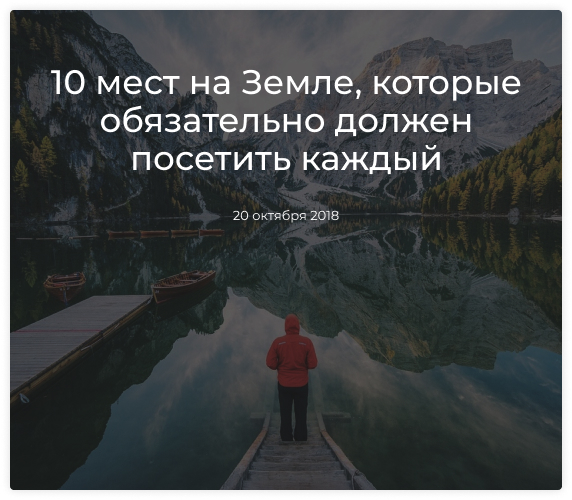
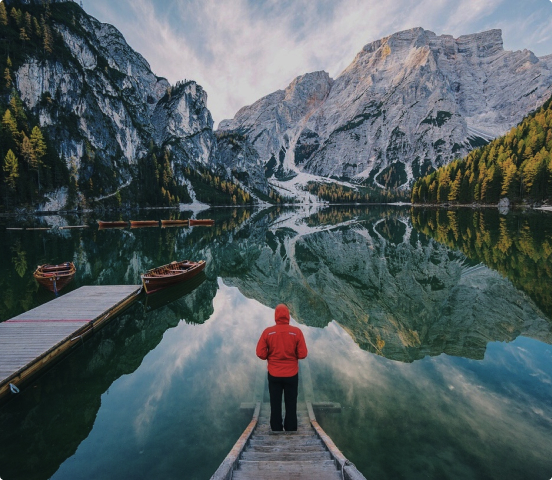
update 1

diff --git a/build/index.html b/build/index.html
@@ -1,1 +1,1 @@
-<!DOCTYPE html><html lang="en"><head><meta charset="UTF-8"><meta name="viewport" content="width=device-width,initial-scale=1"><meta http-equiv="X-UA-Compatible" content="ie=edge"><link href="https://fonts.googleapis.com/css?family=Montserrat:400,500&display=swap" rel="stylesheet"><link rel="stylesheet" href="styles/style.min.css"><title>Level2-Site1</title></head><body class="page"><header class="header"><div class="header-top"><div class="header-top__right"><img class="header-top__logo" src="./images/header-logo.svg" width="183" height="50" alt="header-logo"><ul class="header-top__lang"><li class="other-lang"><a class="lang" href="#">Eng</a></li><li class="current-lang"><a class="lang" href="#">Рус</a></li></ul></div><nav class="nav"><ul class="nav-list"><li class="nav-list__item"><a class="nav-list__link" href="#">О нас</a></li><li class="nav-list__item"><a class="nav-list__link" href="#">Туры</a></li><li class="nav-list__item"><a class="nav-list__link" href="#">Визы</a></li><li class="nav-list__item"><a class="nav-list__link" href="#">Агентам</a></li><li class="nav-list__item"><a class="nav-list__link" href="#">Контакты</a></li></ul><a class="nav__help" href="#">Помощь</a></nav></div><div class="banner"><div class="banner-text"><h1 class="banner-text__title">Исследуйте мир вместе с нами</h1><p class="banner-text__action">Брось себе вызов. Отправься в путешествия в дикие уголки природы.</p></div><div class="banner-search"><h2 class="banner-search__title">Быстрый поиск тура</h2><form class="form" action="#"><p class="form-input"><input class="input form__where" id="where" type="text" placeholder="Куда"> <label class="label" for="where"></label></p><p class="form-input"><input class="input form__when" id="when" type="text" placeholder="Когда"> <label class="label" for="when"></label> <input class="input form__duration" id="duration" type="text" placeholder="Продолжительность"> <label class="label" for="duration"></label></p><p class="form-input"><input class="input form__tour-type" id="tour-type" type="text" placeholder="Тип тура"> <label class="label" for="tour-type"></label></p><button class="form__find">Найти</button></form></div></div><div class="advantages"><h2 class="advantages__title">Почему именно мы</h2><div class="advantages-description"><div class="advantage"><img class="advantage__image" src="./images/visa.svg" alt="visa"><p class="advantage__description">Визовая поддержка клиентов</p></div><div class="advantage"><img class="advantage__image" src="./images/world.svg" alt="world"><p class="advantage__description">Направления по всему миру</p></div><div class="advantage"><img class="advantage__image" src="./images/hunter.svg" alt="hunter"><p class="advantage__description">Сопровождение опытными гидами</p></div><div class="advantage"><img class="advantage__image" src="./images/equipment.svg" alt="equipment"><p class="advantage__description">Полное обеспечение снаряжением</p></div></div></div></header><main class="main"><div class="directions"><h2 class="directions__title">Актуальные направления</h2><div class="directions-info"><div class="direction"><img src="./images/kemping-photo.jpg" width="360" height="216" alt="kemping-photo" class="direction__image"><h3 class="direction__title">Кемпинг в Хардангере – сердце Региона фьордов</h3><p class="direction__description">Одно из лучших мест отдыха находится в районе Хардангера, у туристов есть возможность ежедневно любоваться дикой природой севера.</p><p class="direction__details">Подробнее</p></div><div class="direction"><img src="./images/Sogne-fjord-photo.jpg" width="360" height="216" alt="Sogne-fjord-photo" class="direction__image"><h3 class="direction__title">Треккинг по Согне-фьорд с восхождением на Гальхёпигген</h3><p class="direction__description">Уникальный поход совмещенный с путешествием по самому большому и красивому фьорду – Согне-фьорд.</p><p class="direction__details">Подробнее</p></div><div class="direction"><img src="./images/climbing-photo.jpg" width="360" height="216" alt="climbing-photo" class="direction__image"><h3 class="direction__title">Восхождение на гору Ушба в регионе Сванети</h3><p class="direction__description">Одна из самых знаменитых гор Кавказа. Расположена она в регионе Сванети. Со сванского языка "уш" означает беда, "ба" — гору. То есть гора, приносящая несчастье.</p><p class="direction__details">Подробнее</p></div><div class="direction"><img src="./images/kayaking-photo.jpg" width="360" height="216" alt="kayaking-photo" class="direction__image"><h3 class="direction__title">Каякинг на каноэ по озеру Сайма в Финляндии</h3><p class="direction__description">Водный поход с элементами ориентирования и необычными природными объектами. Неделя настоящего отдыха для тех, кто любит ...</p><p class="direction__details">Подробнее</p></div><div class="direction"><img src="./images/troll-tongue-photo.jpg" width="360" height="216" alt="troll-tongue-photo" class="direction__image"><h3 class="direction__title">Треккинг к Языку Тролля — Фьорд Sørfjorden, Норвегия</h3><p class="direction__description">Язык Тролля - без преувеличения самое известное и культовое место в Норвегии. К нему не доехать на машине. Сюда могут попасть только те..</p><p class="direction__details">Подробнее</p></div><div class="direction"><img src="./images/hike-photo.jpg" width="360" height="216" alt="hike-photo" class="direction__image"><h3 class="direction__title">Поход по Исландии - Лаугавегур - Ландманалуга</h3><p class="direction__description">За 9 ходовых дней (из них 2 дня – радиальные выходы) пройдем ~ 135 км по горам, лавовым полям, разноцветным холмам и другим исландским природным..</p><p class="direction__details">Подробнее</p></div><button class="directions__button">Смотреть все</button></div></div></main><script src="scripts/libs.min.js"></script><script src="scripts/main.min.js"></script></body></html>
+<!DOCTYPE html><html lang="en"><head><meta charset="UTF-8"><meta name="viewport" content="width=device-width,initial-scale=1"><meta http-equiv="X-UA-Compatible" content="ie=edge"><link href="https://fonts.googleapis.com/css?family=Montserrat:400,500&display=swap" rel="stylesheet"><link rel="stylesheet" href="styles/style.min.css"><title>Level2-Site1</title></head><body class="page"><header class="header"><div class="header-top"><div class="header-top__right"><img class="header-top__logo" src="./images/header-logo.svg" width="183" height="50" alt="header-logo"><ul class="header-top__lang"><li class="other-lang"><a class="lang" href="#">Eng</a></li><li class="current-lang"><a class="lang" href="#">Рус</a></li></ul></div><nav class="nav"><ul class="nav-list"><li class="nav-list__item"><a class="nav-list__link" href="#">О нас</a></li><li class="nav-list__item"><a class="nav-list__link" href="#">Туры</a></li><li class="nav-list__item"><a class="nav-list__link" href="#">Визы</a></li><li class="nav-list__item"><a class="nav-list__link" href="#">Агентам</a></li><li class="nav-list__item"><a class="nav-list__link" href="#">Контакты</a></li></ul><a class="nav__help" href="#">Помощь</a></nav></div><div class="banner"><div class="banner-text"><h1 class="banner-text__title">Исследуйте мир вместе с нами</h1><p class="banner-text__action">Брось себе вызов. Отправься в путешествия в дикие уголки природы.</p></div><div class="banner-search"><h2 class="banner-search__title">Быстрый поиск тура</h2><form class="form" action="#"><p class="form-input"><input class="input form__where" id="where" type="text" placeholder="Куда"> <label class="label" for="where"></label></p><p class="form-input"><input class="input form__when" id="when" type="text" placeholder="Когда"> <label class="label" for="when"></label> <input class="input form__duration" id="duration" type="text" placeholder="Продолжительность"> <label class="label" for="duration"></label></p><p class="form-input"><input class="input form__tour-type" id="tour-type" type="text" placeholder="Тип тура"> <label class="label" for="tour-type"></label></p><button class="form__find">Найти</button></form></div></div><div class="advantages"><h2 class="advantages__title">Почему именно мы</h2><div class="advantages-description"><div class="advantage"><img class="advantage__image" src="./images/visa.svg" alt="visa"><p class="advantage__description">Визовая поддержка клиентов</p></div><div class="advantage"><img class="advantage__image" src="./images/world.svg" alt="world"><p class="advantage__description">Направления по всему миру</p></div><div class="advantage"><img class="advantage__image" src="./images/hunter.svg" alt="hunter"><p class="advantage__description">Сопровождение опытными гидами</p></div><div class="advantage"><img class="advantage__image" src="./images/equipment.svg" alt="equipment"><p class="advantage__description">Полное обеспечение снаряжением</p></div></div></div></header><main class="main"><div class="directions"><h2 class="directions__title">Актуальные направления</h2><div class="directions-info"><div class="direction"><img class="direction__image" src="./images/kemping-photo.jpg" width="360" height="216" alt="kemping-photo"><h3 class="direction__title">Кемпинг в Хардангере – сердце Региона фьордов</h3><p class="direction__description">Одно из лучших мест отдыха находится в районе Хардангера, у туристов есть возможность ежедневно любоваться дикой природой севера.</p><p class="direction__details">Подробнее</p></div><div class="direction"><img class="direction__image" src="./images/Sogne-fjord-photo.jpg" width="360" height="216" alt="Sogne-fjord-photo"><h3 class="direction__title">Треккинг по Согне-фьорд с восхождением на Гальхёпигген</h3><p class="direction__description">Уникальный поход совмещенный с путешествием по самому большому и красивому фьорду – Согне-фьорд.</p><p class="direction__details">Подробнее</p></div><div class="direction"><img class="direction__image" src="./images/climbing-photo.jpg" width="360" height="216" alt="climbing-photo"><h3 class="direction__title">Восхождение на гору Ушба в регионе Сванети</h3><p class="direction__description">Одна из самых знаменитых гор Кавказа. Расположена она в регионе Сванети. Со сванского языка "уш" означает беда, "ба" — гору. То есть гора, приносящая несчастье.</p><p class="direction__details">Подробнее</p></div><div class="direction"><img class="direction__image" src="./images/kayaking-photo.jpg" width="360" height="216" alt="kayaking-photo"><h3 class="direction__title">Каякинг на каноэ по озеру Сайма в Финляндии</h3><p class="direction__description">Водный поход с элементами ориентирования и необычными природными объектами. Неделя настоящего отдыха для тех, кто любит ...</p><p class="direction__details">Подробнее</p></div><div class="direction"><img class="direction__image" src="./images/troll-tongue-photo.jpg" width="360" height="216" alt="troll-tongue-photo"><h3 class="direction__title">Треккинг к Языку Тролля — Фьорд Sørfjorden, Норвегия</h3><p class="direction__description">Язык Тролля - без преувеличения самое известное и культовое место в Норвегии. К нему не доехать на машине. Сюда могут попасть только те..</p><p class="direction__details">Подробнее</p></div><div class="direction"><img class="direction__image" src="./images/hike-photo.jpg" width="360" height="216" alt="hike-photo"><h3 class="direction__title">Поход по Исландии - Лаугавегур - Ландманалуга</h3><p class="direction__description">За 9 ходовых дней (из них 2 дня – радиальные выходы) пройдем ~ 135 км по горам, лавовым полям, разноцветным холмам и другим исландским природным..</p><p class="direction__details">Подробнее</p></div></div><button class="button">Смотреть все</button></div><div class="statistics"><div class="statistics-content"><div class="data"><h2 class="data__number">9</h2><p class="data__text">Лет работы</p></div><div class="data"><h2 class="data__number">62,500</h2><p class="data__text">Довольных клиентов</p></div><div class="data"><h2 class="data__number">112</h2><p class="data__text">Захватываюших туров</p></div><div class="data"><h2 class="data__number">23</h2><p class="data__text">Офиса в Беларуси</p></div></div></div><div class="blog"><h2 class="blog__title">Наш блог</h2><div class="blog__description"><div class="ten-places"><h3 class="ten-places__title">10 мест на Земле, которые обязательно должен посетить каждый</h3><p class="date">20 октября 2018</p></div><div class="travel-bloger"><img class="travel-bloger__image" src="./images/blog-travel-bloger.jpg" alt="travel-bloger"><h3 class="travel-bloger__title">Как стать успешным тревел-блогером</h3><p class="travel-bloger__description">Блоги о путешествиях - это актуальное пространство, и каждый день оно становится более переполненным. И многие советы, которые..</p><div class="card-bottom"><p class="date">17 октября 2018</p><div class="feedback"><div class="comments"><img class="comments__icon" src="" alt=""><p class="comments__number">208</p></div><div class="likes"><img class="likes__icon" src="" alt=""><p class="likes__number">21</p></div></div></div></div><div class="lifehacks"><img class="lifehacks__image" src="./images/blog-lifehacks.jpg" alt="lifehacks"><h3 class="lifehacks__title">Лайфхаки успешно- го путешествия по Норвегии</h3><p class="lifehacks__description">Норвегия — пожалуй, лучшая страна для приключенчес- кого туризма в Европе. Здесь есть все: горы для альпинистов..</p><div class="card-bottom"><p class="date">12 октября 2018</p><div class="feedback"><div class="comments"><img class="comments__icon" src="" alt=""><p class="comments__number">112</p></div><div class="likes"><img class="likes__icon" src="" alt=""><p class="likes__number">13</p></div></div></div></div></div><button class="button">Смотреть все</button></div></main><script src="scripts/libs.min.js"></script><script src="scripts/main.min.js"></script></body></html>

diff --git a/build/styles/style.min.css b/build/styles/style.min.css
@@ -1,2 +1,2 @@
-*,body{margin:0}*{-webkit-box-sizing:border-box;box-sizing:border-box;padding:0}body{color:#fff;font-family:"Montserrat",sans-serif;background-color:#1b1e22}.header{max-width:1440px;margin:auto;height:1032px;padding-top:29px;background:-webkit-gradient(linear,left top,left bottom,color-stop(2.5%,rgba(255,255,255,.03)),color-stop(42.42%,rgba(27,30,34,.4)),color-stop(80.67%,#1b1e22)),url(../images/background.jpg) no-repeat center;background:-o-linear-gradient(top,rgba(255,255,255,.03) 2.5%,rgba(27,30,34,.4) 42.42%,#1b1e22 80.67%),url(../images/background.jpg) no-repeat center;background:linear-gradient(180deg,rgba(255,255,255,.03) 2.5%,rgba(27,30,34,.4) 42.42%,#1b1e22 80.67%),url(../images/background.jpg) no-repeat center}.header-top,.header-top__lang,.header-top__right{display:-webkit-box;display:-ms-flexbox;display:flex;-webkit-box-pack:justify;-ms-flex-pack:justify;justify-content:space-between}.header-top{margin:0 auto 77px;-webkit-box-align:center;-ms-flex-align:center;align-items:center;max-width:1128px}.header-top__lang,.header-top__right{-webkit-box-align:end;-ms-flex-align:end;align-items:flex-end;width:100%;max-width:292px}.header-top__lang{-webkit-box-align:center;-ms-flex-align:center;align-items:center;max-width:76px;font-weight:500;font-size:13px;line-height:16px;list-style-type:none}.other-lang a{color:rgba(196,196,196,.5)}.lang{color:#fff;text-decoration:none}.nav,.nav-list{display:-webkit-box;display:-ms-flexbox;display:flex;-webkit-box-align:center;-ms-flex-align:center;align-items:center;-webkit-box-pack:justify;-ms-flex-pack:justify;justify-content:space-between;width:100%}.nav{font-size:18px;line-height:32px;max-width:657px}.nav-list{max-width:476px}.nav-list__item{list-style-type:none}.nav-list__link{color:#fff;text-decoration:none}.banner,.nav__help{display:-webkit-box;display:-ms-flexbox;display:flex;-webkit-box-align:center;-ms-flex-align:center;align-items:center}.nav__help{width:100%;height:48px;color:#fff;text-decoration:none;border:1px solid #ffb800;border-radius:10px;-webkit-box-pack:center;-ms-flex-pack:center;justify-content:center;max-width:146px}.banner{-webkit-box-pack:justify;-ms-flex-pack:justify;justify-content:space-between;max-width:1205px;margin:0 auto 208px}.banner-text__title{max-width:585px;margin-bottom:42px;font-weight:500;font-size:48px;line-height:58px}.banner-text__action{max-width:474px;font-size:20px;line-height:38px}.banner-search{display:-webkit-box;display:-ms-flexbox;display:flex;-webkit-box-orient:vertical;-webkit-box-direction:normal;-ms-flex-direction:column;flex-direction:column;width:100%;max-width:500px;padding:54px 70px 52px;border-radius:10px;-webkit-backdrop-filter:blur(24px);backdrop-filter:blur(24px)}.banner-search__title{margin-bottom:23px;font-weight:500;font-size:20px;line-height:24px}.form,.form-input{display:-webkit-box;display:-ms-flexbox;display:flex;width:100%}.form{-webkit-box-orient:vertical;-webkit-box-direction:normal;-ms-flex-direction:column;flex-direction:column;-webkit-box-align:center;-ms-flex-align:center;align-items:center}.form-input{-webkit-box-pack:justify;-ms-flex-pack:justify;justify-content:space-between;margin-bottom:21px}.input{width:100%;padding:9px 0 9px 12px;color:#fff;font-weight:500;font-size:13px;font-family:"Montserrat",sans-serif;line-height:16px;background:0 0;border:1px solid #fff;border-radius:4px;outline:0;caret-color:#fff}.input::-webkit-input-placeholder{color:#fff;font-weight:500;font-size:13px;font-family:"Montserrat",sans-serif;line-height:16px}.input::-moz-placeholder{color:#fff;font-weight:500;font-size:13px;font-family:"Montserrat",sans-serif;line-height:16px}.input:-ms-input-placeholder,.input::-ms-input-placeholder{color:#fff;font-weight:500;font-size:13px;font-family:"Montserrat",sans-serif;line-height:16px}.input::placeholder{color:#fff;font-weight:500;font-size:13px;font-family:"Montserrat",sans-serif;line-height:16px}.label{display:none}.form__where{max-width:360px}.form__duration,.form__when{max-width:168px}.form__find,.form__tour-type{max-width:360px}.form__find{width:100%;padding:6px 0;color:#333;font-weight:500;font-size:20px;line-height:24px;background:#ffb800;border:0;border-radius:4px;outline:0;cursor:pointer}.advantages{display:-webkit-box;display:-ms-flexbox;display:flex;-webkit-box-orient:vertical;-webkit-box-direction:normal;-ms-flex-direction:column;flex-direction:column;-webkit-box-align:center;-ms-flex-align:center;align-items:center;max-width:1128px;margin:auto}.advantages__title{font-weight:500;font-size:34px;line-height:38px;font-style:normal;margin-bottom:21px}.advantage,.advantages-description{display:-webkit-box;display:-ms-flexbox;display:flex}.advantages-description{-webkit-box-pack:justify;-ms-flex-pack:justify;justify-content:space-between}.advantage{-webkit-box-orient:vertical;-webkit-box-direction:normal;-ms-flex-direction:column;flex-direction:column;max-width:264px;width:100%}.advantage__image{margin-bottom:17px}.advantage__description{text-align:center;font-weight:500;font-size:20px;line-height:24px}.directions{display:-webkit-box;display:-ms-flexbox;display:flex;-webkit-box-orient:vertical;-webkit-box-direction:normal;-ms-flex-direction:column;flex-direction:column;-webkit-box-align:center;-ms-flex-align:center;align-items:center;max-width:1152px;margin:auto auto 48px}.directions__title{text-align:center;font-weight:500;font-size:34px;line-height:38px;margin-bottom:45px}.direction,.directions-info{display:-webkit-box;display:-ms-flexbox;display:flex;-webkit-box-pack:justify;-ms-flex-pack:justify;justify-content:space-between}.directions-info{-ms-flex-wrap:wrap;flex-wrap:wrap}.direction{-webkit-box-orient:vertical;-webkit-box-direction:normal;-ms-flex-direction:column;flex-direction:column;max-width:360px;width:100%;background:#23282f;border-radius:4px;margin:12px;height:432px}.direction:hover,.direction:hover .direction__image{-webkit-transition:.5s;-o-transition:.5s;transition:.5s}.direction:hover{background:#fff;-webkit-box-shadow:0 15px 35px rgba(0,0,0,.75);box-shadow:0 15px 35px rgba(0,0,0,.75);max-width:384px;margin:0;cursor:pointer;height:456px}.direction:hover .direction__image{width:384px;height:228px}.direction:hover .direction__description,.direction:hover .direction__details,.direction:hover .direction__title{margin:0 32px;-webkit-transition:.5s;-o-transition:.5s;transition:.5s;color:#333}.direction:hover .direction__details{margin:0 32px 33px;color:#000}.direction__title{font-weight:500;font-size:20px;line-height:24px;margin:0 20px}.direction__description{font-size:14px;line-height:20px;margin:0 20px}.direction__details{font-weight:500;font-size:13px;line-height:16px;margin:0 20px 24px;opacity:.5}.directions__button{font-weight:500;font-size:20px;line-height:24px;border:1px solid #ffb800;border-radius:4px;width:100%;max-width:216px;height:48px;background:0 0;color:#fff;font-family:"Montserrat",sans-serif;outline:0;cursor:pointer}
+*,body{margin:0}*{-webkit-box-sizing:border-box;box-sizing:border-box;padding:0}body{color:#fff;font-family:"Montserrat",sans-serif;background-color:#1b1e22}.header{max-width:1440px;margin:auto;height:1032px;padding-top:29px;background:-webkit-gradient(linear,left top,left bottom,color-stop(2.5%,rgba(255,255,255,.03)),color-stop(42.42%,rgba(27,30,34,.4)),color-stop(80.67%,#1b1e22)),url(../images/background.jpg) no-repeat center;background:-o-linear-gradient(top,rgba(255,255,255,.03) 2.5%,rgba(27,30,34,.4) 42.42%,#1b1e22 80.67%),url(../images/background.jpg) no-repeat center;background:linear-gradient(180deg,rgba(255,255,255,.03) 2.5%,rgba(27,30,34,.4) 42.42%,#1b1e22 80.67%),url(../images/background.jpg) no-repeat center}.header-top,.header-top__lang,.header-top__right{display:-webkit-box;display:-ms-flexbox;display:flex;-webkit-box-pack:justify;-ms-flex-pack:justify;justify-content:space-between}.header-top{margin:0 auto 77px;-webkit-box-align:center;-ms-flex-align:center;align-items:center;max-width:1128px}.header-top__lang,.header-top__right{-webkit-box-align:end;-ms-flex-align:end;align-items:flex-end;width:100%;max-width:292px}.header-top__lang{-webkit-box-align:center;-ms-flex-align:center;align-items:center;max-width:76px;font-weight:500;font-size:13px;line-height:16px;list-style-type:none}.other-lang a{color:rgba(196,196,196,.5)}.lang{color:#fff;text-decoration:none}.nav,.nav-list{display:-webkit-box;display:-ms-flexbox;display:flex;-webkit-box-align:center;-ms-flex-align:center;align-items:center;-webkit-box-pack:justify;-ms-flex-pack:justify;justify-content:space-between;width:100%}.nav{font-size:18px;line-height:32px;max-width:657px}.nav-list{max-width:476px}.nav-list__item{list-style-type:none}.nav-list__link{color:#fff;text-decoration:none}.banner,.nav__help{display:-webkit-box;display:-ms-flexbox;display:flex;-webkit-box-align:center;-ms-flex-align:center;align-items:center}.nav__help{width:100%;height:48px;color:#fff;text-decoration:none;border:1px solid #ffb800;border-radius:10px;-webkit-box-pack:center;-ms-flex-pack:center;justify-content:center;max-width:146px}.banner{-webkit-box-pack:justify;-ms-flex-pack:justify;justify-content:space-between;max-width:1205px;margin:0 auto 208px}.banner-text__title{max-width:585px;margin-bottom:42px;font-weight:500;font-size:48px;line-height:58px}.banner-text__action{max-width:474px;font-size:20px;line-height:38px}.banner-search{display:-webkit-box;display:-ms-flexbox;display:flex;-webkit-box-orient:vertical;-webkit-box-direction:normal;-ms-flex-direction:column;flex-direction:column;width:100%;max-width:500px;padding:54px 70px 52px;border-radius:10px;-webkit-backdrop-filter:blur(24px);backdrop-filter:blur(24px)}.banner-search__title{margin-bottom:23px;font-weight:500;font-size:20px;line-height:24px}.form,.form-input{display:-webkit-box;display:-ms-flexbox;display:flex;width:100%}.form{-webkit-box-orient:vertical;-webkit-box-direction:normal;-ms-flex-direction:column;flex-direction:column;-webkit-box-align:center;-ms-flex-align:center;align-items:center}.form-input{-webkit-box-pack:justify;-ms-flex-pack:justify;justify-content:space-between;margin-bottom:21px}.input{width:100%;padding:9px 0 9px 12px;color:#fff;font-weight:500;font-size:13px;font-family:"Montserrat",sans-serif;line-height:16px;background:0 0;border:1px solid #fff;border-radius:4px;outline:0;caret-color:#fff}.input::-webkit-input-placeholder{color:#fff;font-weight:500;font-size:13px;font-family:"Montserrat",sans-serif;line-height:16px}.input::-moz-placeholder{color:#fff;font-weight:500;font-size:13px;font-family:"Montserrat",sans-serif;line-height:16px}.input:-ms-input-placeholder,.input::-ms-input-placeholder{color:#fff;font-weight:500;font-size:13px;font-family:"Montserrat",sans-serif;line-height:16px}.input::placeholder{color:#fff;font-weight:500;font-size:13px;font-family:"Montserrat",sans-serif;line-height:16px}.label{display:none}.form__where{max-width:360px}.form__duration,.form__when{max-width:168px}.form__find,.form__tour-type{max-width:360px}.form__find{width:100%;padding:6px 0;color:#333;font-weight:500;font-size:20px;line-height:24px;background:#ffb800;border:0;border-radius:4px;outline:0;cursor:pointer}.advantages{display:-webkit-box;display:-ms-flexbox;display:flex;-webkit-box-orient:vertical;-webkit-box-direction:normal;-ms-flex-direction:column;flex-direction:column;-webkit-box-align:center;-ms-flex-align:center;align-items:center;max-width:1128px;margin:auto}.advantages__title{font-weight:500;font-size:34px;line-height:38px;font-style:normal;margin-bottom:21px}.advantage,.advantages-description{display:-webkit-box;display:-ms-flexbox;display:flex}.advantages-description{-webkit-box-pack:justify;-ms-flex-pack:justify;justify-content:space-between}.advantage{-webkit-box-orient:vertical;-webkit-box-direction:normal;-ms-flex-direction:column;flex-direction:column;max-width:264px;width:100%}.advantage__image{margin-bottom:17px}.advantage__description{text-align:center;font-weight:500;font-size:20px;line-height:24px}.directions{display:-webkit-box;display:-ms-flexbox;display:flex;-webkit-box-orient:vertical;-webkit-box-direction:normal;-ms-flex-direction:column;flex-direction:column;-webkit-box-align:center;-ms-flex-align:center;align-items:center;max-width:1152px;margin:0 auto 72px}.directions__title{text-align:center;font-weight:500;font-size:34px;line-height:38px;margin-bottom:45px}.direction,.directions-info{display:-webkit-box;display:-ms-flexbox;display:flex;-webkit-box-pack:justify;-ms-flex-pack:justify;justify-content:space-between}.directions-info{-ms-flex-wrap:wrap;flex-wrap:wrap;margin-bottom:48px}.direction{-webkit-box-orient:vertical;-webkit-box-direction:normal;-ms-flex-direction:column;flex-direction:column;max-width:360px;width:100%;background:#23282f;border-radius:4px;margin:12px;height:432px}.direction:hover,.direction:hover .direction__image{-webkit-transition:.5s;-o-transition:.5s;transition:.5s}.direction:hover{background:#fff;-webkit-box-shadow:0 15px 35px rgba(0,0,0,.75);box-shadow:0 15px 35px rgba(0,0,0,.75);max-width:384px;margin:0;cursor:pointer;height:456px}.direction:hover .direction__image{width:384px;height:228px}.direction:hover .direction__description,.direction:hover .direction__details,.direction:hover .direction__title{margin:0 32px;-webkit-transition:.5s;-o-transition:.5s;transition:.5s;color:#333}.direction:hover .direction__details{margin:0 32px 33px;color:#000}.direction__title{font-weight:500;font-size:20px;line-height:24px;margin:0 20px}.direction__description{font-size:14px;line-height:20px;margin:0 20px}.direction__details{font-weight:500;font-size:13px;line-height:16px;margin:0 20px 24px;opacity:.5}.button{font-weight:500;font-size:20px;line-height:24px;border:1px solid #ffb800;border-radius:4px;width:100%;max-width:216px;height:48px;background:0 0;color:#fff;font-family:"Montserrat",sans-serif;outline:0;cursor:pointer}.statistics{background:url(/images/statistics-background.jpg) no-repeat center;padding:59px 0 68px;margin-bottom:62px}.data,.statistics-content{display:-webkit-box;display:-ms-flexbox;display:flex}.statistics-content{-webkit-box-pack:justify;-ms-flex-pack:justify;justify-content:space-between;max-width:1128px;margin:auto}.data{-webkit-box-orient:vertical;-webkit-box-direction:normal;-ms-flex-direction:column;flex-direction:column;-webkit-box-align:center;-ms-flex-align:center;align-items:center}.data__number{font-weight:500;font-size:78px;line-height:58px;color:#ffb800;margin-bottom:22px}.data__text{font-weight:500;font-size:20px;line-height:24px}.blog{display:-webkit-box;display:-ms-flexbox;display:flex;-webkit-box-orient:vertical;-webkit-box-direction:normal;-ms-flex-direction:column;flex-direction:column;-webkit-box-align:center;-ms-flex-align:center;align-items:center}.blog__title{font-weight:500;font-size:34px;line-height:38px;margin-bottom:44px}.blog__description{display:-webkit-box;display:-ms-flexbox;display:flex;-webkit-box-pack:justify;-ms-flex-pack:justify;justify-content:space-between}.ten-places{width:100%;max-width:552px;background:url(/images/blog-10-places.jpg) no-repeat center}
 /*# sourceMappingURL=style.min.css.map */

diff --git a/app/index.html b/app/index.html
@@ -90,24 +90,24 @@
             <h2 class="directions__title">Актуальные направления</h2>
             <div class="directions-info">
                 <div class="direction">
-                    <img src="./images/kemping-photo.jpg" width="360" height="216" alt="kemping-photo"
-                        class="direction__image">
+                    <img class="direction__image" src="./images/kemping-photo.jpg" width="360" height="216"
+                        alt="kemping-photo">
                     <h3 class="direction__title">Кемпинг в Хардангере – сердце Региона фьордов</h3>
                     <p class="direction__description">Одно из лучших мест отдыха находится
                         в районе Хардангера, у туристов есть возможность ежедневно любоваться дикой природой севера.</p>
                     <p class="direction__details">Подробнее</p>
                 </div>
                 <div class="direction">
-                    <img src="./images/Sogne-fjord-photo.jpg" width="360" height="216" alt="Sogne-fjord-photo"
-                        class="direction__image">
+                    <img class="direction__image" src="./images/Sogne-fjord-photo.jpg" width="360" height="216"
+                        alt="Sogne-fjord-photo">
                     <h3 class="direction__title">Треккинг по Согне-фьорд с восхождением на Гальхёпигген</h3>
                     <p class="direction__description">Уникальный поход совмещенный с путешествием по самому большому и
                         красивому фьорду – Согне-фьорд.</p>
                     <p class="direction__details">Подробнее</p>
                 </div>
                 <div class="direction">
-                    <img src="./images/climbing-photo.jpg" width="360" height="216" alt="climbing-photo"
-                        class="direction__image">
+                    <img class="direction__image" src="./images/climbing-photo.jpg" width="360" height="216"
+                        alt="climbing-photo">
                     <h3 class="direction__title">Восхождение на гору Ушба в регионе Сванети</h3>
                     <p class="direction__description">Одна из самых знаменитых гор Кавказа. Расположена она в регионе
                         Сванети. Со сванского языка "уш" означает беда, "ба" — гору. То есть гора, приносящая несчастье.
@@ -115,16 +115,16 @@
                     <p class="direction__details">Подробнее</p>
                 </div>
                 <div class="direction">
-                    <img src="./images/kayaking-photo.jpg" width="360" height="216" alt="kayaking-photo"
-                        class="direction__image">
+                    <img class="direction__image" src="./images/kayaking-photo.jpg" width="360" height="216"
+                        alt="kayaking-photo">
                     <h3 class="direction__title">Каякинг на каноэ по озеру Сайма в Финляндии</h3>
                     <p class="direction__description">Водный поход с элементами ориентирования и необычными природными
                         объектами. Неделя настоящего отдыха для тех, кто любит ...</p>
                     <p class="direction__details">Подробнее</p>
                 </div>
                 <div class="direction">
-                    <img src="./images/troll-tongue-photo.jpg" width="360" height="216" alt="troll-tongue-photo"
-                        class="direction__image">
+                    <img class="direction__image" src="./images/troll-tongue-photo.jpg" width="360" height="216"
+                        alt="troll-tongue-photo">
                     <h3 class="direction__title">Треккинг к Языку Тролля — Фьорд Sørfjorden, Норвегия</h3>
                     <p class="direction__description">Язык Тролля - без преувеличения самое известное и культовое место
                         в Норвегии.
@@ -132,16 +132,87 @@
                     <p class="direction__details">Подробнее</p>
                 </div>
                 <div class="direction">
-                    <img src="./images/hike-photo.jpg" width="360" height="216" alt="hike-photo"
-                        class="direction__image">
+                    <img class="direction__image" src="./images/hike-photo.jpg" width="360" height="216"
+                        alt="hike-photo">
                     <h3 class="direction__title">Поход по Исландии - Лаугавегур - Ландманалуга</h3>
                     <p class="direction__description">За 9 ходовых дней (из них 2 дня – радиальные выходы) пройдем ~ 135
                         км по горам, лавовым полям, разноцветным холмам и другим исландским природным..</p>
                     <p class="direction__details">Подробнее</p>
                 </div>
-                <button class="directions__button">Смотреть все</button>
+            </div>
+            <button class="button">Смотреть все</button>
+        </div>
+
+        <div class="statistics">
+            <div class="statistics-content">
+                <div class="data">
+                    <h2 class="data__number">9</h2>
+                    <p class="data__text">Лет работы</p>
+                </div>
+                <div class="data">
+                    <h2 class="data__number">62,500</h2>
+                    <p class="data__text">Довольных клиентов</p>
+                </div>
+                <div class="data">
+                    <h2 class="data__number">112</h2>
+                    <p class="data__text">Захватываюших туров</p>
+                </div>
+                <div class="data">
+                    <h2 class="data__number">23</h2>
+                    <p class="data__text">Офиса в Беларуси</p>
+                </div>
             </div>
         </div>
+
+        <div class="blog">
+            <h2 class="blog__title">Наш блог</h2>
+            <div class="blog__description">
+                <div class="ten-places">
+                    <h3 class="ten-places__title">10 мест на Земле, которые обязательно должен посетить каждый</h3>
+                    <p class="date">20 октября 2018</p>
+                </div>
+                <div class="travel-bloger">
+                    <img class="travel-bloger__image" src="./images/blog-travel-bloger.jpg" alt="travel-bloger">
+                    <h3 class="travel-bloger__title">Как стать успешным тревел-блогером</h3>
+                    <p class="travel-bloger__description">Блоги о путешествиях - это актуальное пространство, и каждый
+                        день оно становится более переполненным. И многие советы, которые.. </p>
+                    <div class="card-bottom">
+                        <p class="date">17 октября 2018</p>
+                        <div class="feedback">
+                            <div class="comments">
+                                <img class="comments__icon" src="" alt="">
+                                <p class="comments__number">208</p>
+                            </div>
+                            <div class="likes">
+                                <img class="likes__icon" src="" alt="">
+                                <p class="likes__number">21</p>
+                            </div>
+                        </div>
+                    </div>
+                </div>
+                <div class="lifehacks">
+                    <img class="lifehacks__image" src="./images/blog-lifehacks.jpg" alt="lifehacks">
+                    <h3 class="lifehacks__title">Лайфхаки успешно- го путешествия по Норвегии</h3>
+                    <p class="lifehacks__description">Норвегия — пожалуй, лучшая страна для приключенчес- кого туризма в
+                        Европе. Здесь есть все: горы для альпинистов..</p>
+                    <div class="card-bottom">
+                        <p class="date">12 октября 2018</p>
+                        <div class="feedback">
+                            <div class="comments">
+                                <img class="comments__icon" src="" alt="">
+                                <p class="comments__number">112</p>
+                            </div>
+                            <div class="likes">
+                                <img class="likes__icon" src="" alt="">
+                                <p class="likes__number">13</p>
+                            </div>
+                        </div>
+                    </div>
+                </div>
+            </div>
+            <button class="button">Смотреть все</button>
+        </div>
+
     </main>
 
     <script src="scripts/libs.min.js"></script>

diff --git a/app/sass/style.scss b/app/sass/style.scss
@@ -274,8 +274,7 @@ body {
   flex-direction: column;
   align-items: center;
   max-width: 1152px;
-  margin: auto;
-  margin-bottom: 48px;
+  margin: 0 auto 72px;
 }
 
 .directions__title {
@@ -290,6 +289,7 @@ body {
   display: flex;
   flex-wrap: wrap;
   justify-content: space-between;
+  margin-bottom: 48px;
 }
 
 .direction {
@@ -365,7 +365,7 @@ body {
   opacity: 0.5;
 }
 
-.directions__button {
+.button {
   font-weight: 500;
   font-size: 20px;
   line-height: 24px;
@@ -379,4 +379,60 @@ body {
   font-family: "Montserrat", sans-serif;
   outline: none;
   cursor: pointer;
+}
+
+.statistics {
+  background: url("/images/statistics-background.jpg") no-repeat center;
+  padding: 59px 0 68px;
+  margin-bottom: 62px;
+}
+
+.statistics-content {
+  display: flex;
+  justify-content: space-between;
+  @include container();
+}
+
+.data {
+  display: flex;
+  flex-direction: column;
+  align-items: center;
+}
+
+.data__number {
+  font-weight: 500;
+  font-size: 78px;
+  line-height: 58px;
+  color: #ffb800;
+  margin-bottom: 22px;
+}
+
+.data__text {
+  font-weight: 500;
+  font-size: 20px;
+  line-height: 24px;
+}
+
+.blog {
+  display: flex;
+  flex-direction: column;
+  align-items: center;
+}
+
+.blog__title {
+  font-weight: 500;
+  font-size: 34px;
+  line-height: 38px;
+  margin-bottom: 44px;
+}
+
+.blog__description {
+  display: flex;
+  justify-content: space-between;
+}
+
+.ten-places {
+  width: 100%;
+  max-width: 552px;
+  background: url("/images/blog-10-places.jpg") no-repeat center;
 }
